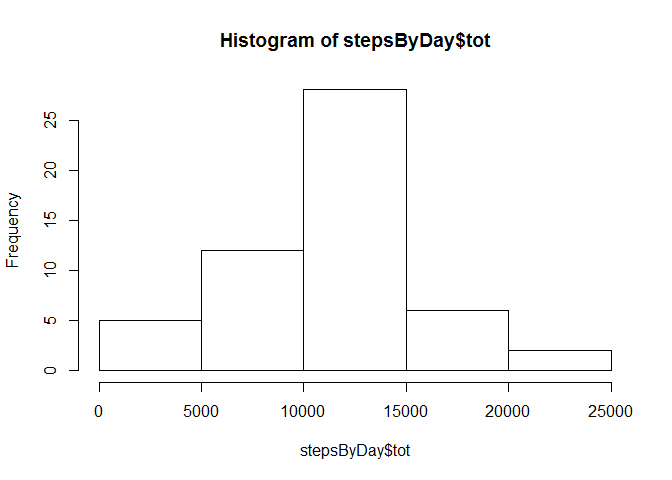
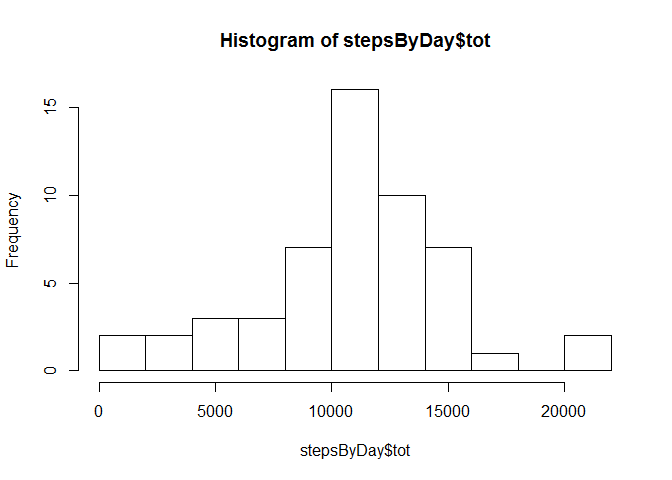
Added explanations, changed histogram plots
Histograms now have 20 cells

diff --git a/PA1_template.html b/PA1_template.html
@@ -72,8 +72,8 @@ activity$date = as.Date(activity$date)</code></pre>
     activity %&gt;%
     group_by(date) %&gt;%
     summarise(tot = sum(steps))
-hist(stepsByDay$tot)</code></pre>
[1 lines of base64/hex data omitted]
+hist(stepsByDay$tot,breaks=10)</code></pre>
[1 lines of base64/hex data omitted]
 </div>
 <div id="mean-value" class="section level3">
 <h3>Mean value</h3>
@@ -99,6 +99,7 @@ plot(stepsByInterval, type = &quot;l&quot;)</code></pre>
 </div>
 <div id="most-intense-interval" class="section level3">
 <h3>Most intense interval</h3>
+<p>The following is the 5-minute interval containing the maximum number of steps:</p>
 <pre class="r"><code>stepsByInterval$interval[which.max(stepsByInterval$avg)]</code></pre>
 <pre><code>## [1] 835</code></pre>
 </div>
@@ -112,18 +113,26 @@ plot(stepsByInterval, type = &quot;l&quot;)</code></pre>
 </div>
 <div id="filling-missing-values" class="section level3">
 <h3>Filling missing values</h3>
+<p>To fill NA values my strategy is repetition of the leftmost or rightmost non-NA value in the exterior, and linear interpolation in the interior. I do this using the function na.fill from the zoo package:</p>
 <pre class="r"><code>activityFilled &lt;- activity
 activityFilled$steps &lt;- na.fill(activity$steps, &quot;extend&quot;)
 stepsByDayFilled &lt;-
     activityFilled %&gt;%
     group_by(date) %&gt;%
     summarise(tot = sum(steps))
-hist(stepsByDayFilled$tot)</code></pre>
[1 lines of base64/hex data omitted]
+hist(stepsByDayFilled$tot,breaks=10)</code></pre>
[1 lines of base64/hex data omitted]
+</div>
+<div id="mean-value-1" class="section level3">
+<h3>Mean value</h3>
 <pre class="r"><code>mean(stepsByDayFilled$tot)</code></pre>
 <pre><code>## [1] 9354.23</code></pre>
+</div>
+<div id="median-value-1" class="section level3">
+<h3>Median value</h3>
 <pre class="r"><code>median(stepsByDayFilled$tot)</code></pre>
 <pre><code>## [1] 10395</code></pre>
+<p>The values are now lower, as my strategy gives more days with zero activity.</p>
 </div>
 </div>
 <div id="are-there-differences-in-activity-patterns-between-weekdays-and-weekends" class="section level2">

diff --git a/PA1_template.md b/PA1_template.md
@@ -22,7 +22,7 @@ stepsByDay <-
     activity %>%
     group_by(date) %>%
     summarise(tot = sum(steps))
-hist(stepsByDay$tot)
+hist(stepsByDay$tot,breaks=10)
 ```
 
 ![](./PA1_template_files/figure-html/histogram-1.png) 
@@ -62,6 +62,7 @@ plot(stepsByInterval, type = "l")
 ![](./PA1_template_files/figure-html/plot_daily-1.png) 
 
 ### Most intense interval
+The following is the 5-minute interval containing the maximum number of steps:
 
 ```r
 stepsByInterval$interval[which.max(stepsByInterval$avg)]
@@ -84,6 +85,7 @@ sum(is.na(activity$steps))
 ```
 
 ### Filling missing values
+To fill NA values my strategy is repetition of the leftmost or rightmost non-NA value in the exterior, and linear interpolation in the interior. I do this using the function na.fill from the zoo package:
 
 ```r
 activityFilled <- activity
@@ -92,10 +94,12 @@ stepsByDayFilled <-
     activityFilled %>%
     group_by(date) %>%
     summarise(tot = sum(steps))
-hist(stepsByDayFilled$tot)
+hist(stepsByDayFilled$tot,breaks=10)
 ```
 
 ![](./PA1_template_files/figure-html/na_fill-1.png) 
+
+### Mean value
 
 ```r
 mean(stepsByDayFilled$tot)
@@ -105,6 +109,8 @@ mean(stepsByDayFilled$tot)
 ## [1] 9354.23
 ```
 
+### Median value
+
 ```r
 median(stepsByDayFilled$tot)
 ```
@@ -112,6 +118,8 @@ median(stepsByDayFilled$tot)
 ```
 ## [1] 10395
 ```
+
+The values are now lower, as my strategy gives more days with zero activity.
 
 ## Are there differences in activity patterns between weekdays and weekends?
 
